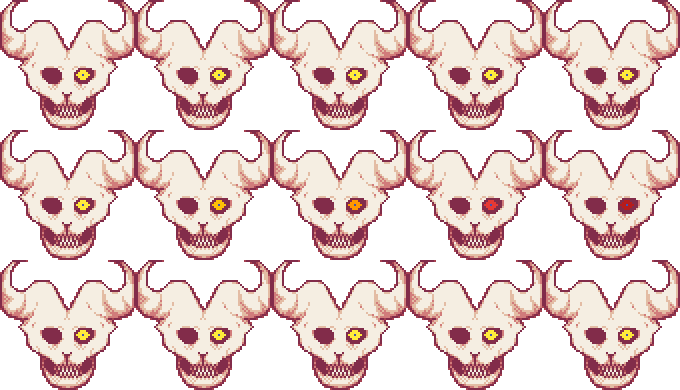
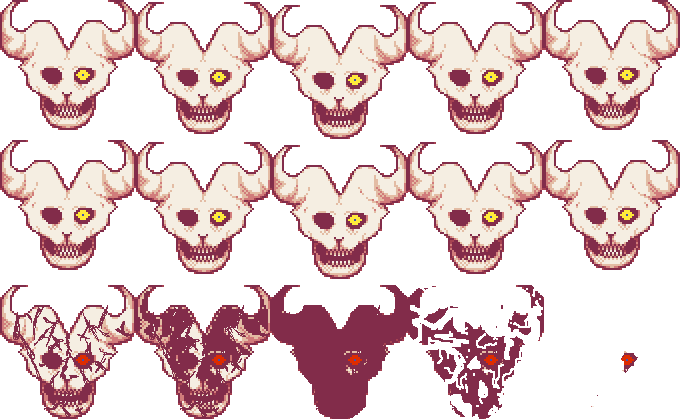
added boss spritesheet, WORKING BOSS IMPLEMENTATION

diff --git a/TowerDefense/TowerDefense/GameScreen.cpp b/TowerDefense/TowerDefense/GameScreen.cpp
@@ -58,7 +58,7 @@ int GameScreen::Run(sf::RenderWindow &window)
 		std::cerr << "gunner_spriteSheet failed" << std::endl;
 		return -1;
 	}
-	if (!boss_texture.loadFromFile("images/background.png"))	// replace with boss
+	if (!boss_texture.loadFromFile("images/enemies/boss.png"))	// replace with boss
 	{
 		std::cerr << "boss_spriteSheet failed" << std::endl;
 		return -1;
@@ -825,8 +825,8 @@ void GameScreen::setSpriteAnimations(std::vector<Animation>* ani, sf::Texture* t
 			size_y = 60;
 			break;
 		case 'b':
-			size_x = 204;
-			size_y = 195;
+			size_x = 136;
+			size_y = 140;
 			break;
 	}
 	Animation idle;

diff --git a/TowerDefense/TowerDefense/GameScreen.hpp b/TowerDefense/TowerDefense/GameScreen.hpp
@@ -174,7 +174,7 @@ private:
 	// Rounds
 	std::vector<Wave*> waves;
 	const static int numLevels = 10;
-	int waveRound = 10; // add 1
+	int waveRound = 0; // add 1
 	int skellyAmount[numLevels] = { 3, 4, 5, 5, 7, 7, 0, 0, 9, 10 };
 	int rhinoAmount[numLevels] = { 0, 2, 3, 5, 3, 3, 10, 9, 5, 4 };
 	int lancerAmount[numLevels] = { 0, 0, 1, 2, 2, 3, 4, 7, 3, 3 };
